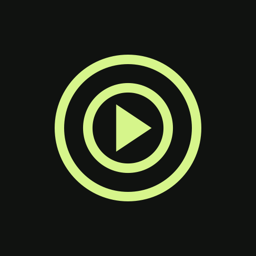
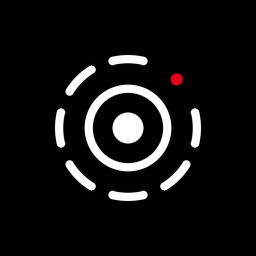
perf(sync): direct 1 MB USB reads, table-driven parallel LUT, per-stage timing
- UsbS5 reads large PTP payloads straight into the result in 1 MB bulk
  transfers instead of copying through a 16 KB packet buffer.
- LutEngine precomputes each channel's grid cell and weight for the 256
  input levels and renders full-size photos in row strips across cores;
  output is bit-identical to the old per-pixel loop (host check).
- Each saved photo logs where its time went: shutter, waiting for the new
  file, transfer with size and MB/s, LUT and total, for app shots and
  body-shutter syncs.

Also: black window background and white accent in both themes, the demo
frame's moving dot is no longer lime, and the new black-and-white app icon
with a Leica-red dot (drawn by Codex, docs/design/app-icon.svg).

Changed region(s): [[0.1875, 0.1875, 0.8125, 0.8125], [0.3125, 0.3125, 0.6875, 0.6875], [0.4375, 0.4062, 0.5938, 0.5938]]

diff --git a/mobile/src/scopes/ScopesOverlay.tsx b/mobile/src/scopes/ScopesOverlay.tsx
@@ -138,7 +138,7 @@ const ScopeChart = React.memo(function ScopeChart({kind, panel, bounds, data, st
     </View>
     {pressFeedback && <View testID={`scope-press-feedback-${kind}`} pointerEvents="none" style={styles.pressFeedback}>
       <Svg width={32} height={32} viewBox="0 0 32 32">
-        <Circle cx={16} cy={16} r={15} fill="#101210D9"/>
+        <Circle cx={16} cy={16} r={15} fill="#000000D9"/>
         <Circle cx={16} cy={16} r={RING_RADIUS} fill="none" stroke="#FFFFFF66" strokeWidth={2.5}/>
         <AnimatedCircle cx={16} cy={16} r={RING_RADIUS} fill="none" stroke={ui.color.accent} strokeWidth={2.5} strokeLinecap="round"
           strokeDasharray={`${RING_CIRCUMFERENCE} ${RING_CIRCUMFERENCE}`}

diff --git a/app/src/main/java/cn/moment/lumix/CaptureEngine.java b/app/src/main/java/cn/moment/lumix/CaptureEngine.java
@@ -211,6 +211,7 @@ public final class CaptureEngine {
         preparedHandles=null;log("遥控快门的照片尚未出现在机身索引中；下一次拍摄只接受快门后的照片事件");
     }
     private void importCameraPhoto(CameraTransport session,CameraTransport.Original photo) {
+        long foundUs=now();
         File dir=null;JSONObject meta=new JSONObject();LutEngine filter=lut;
         try {
             listener.status("正在同步机身拍摄的照片",false);
@@ -221,13 +222,17 @@ public final class CaptureEngine {
             meta.put("frames",0);meta.put("durationUs",0);meta.put("audio",false);meta.put("hasPostFrames",false);meta.put("complete",false);
             MomentStore.metadata(dir,meta);
             File original=new File(dir,"original.jpg"),part=new File(dir,"original.jpg.part");
-            try {session.downloadOriginal(photo,part);Files.move(part.toPath(),original.toPath(),java.nio.file.StandardCopyOption.ATOMIC_MOVE);}
+            SyncTiming timing=new SyncTiming(foundUs,foundUs,foundUs);timing.found=foundUs;
+            try {session.downloadOriginal(photo,part);timing.bytes=part.length();timing.downloaded=now();Files.move(part.toPath(),original.toPath(),java.nio.file.StandardCopyOption.ATOMIC_MOVE);}
             finally {Files.deleteIfExists(part.toPath());}
             savedOriginals.add(photo.key());session.noteSaved(photo);
             CameraTransport.Baseline before=preparedHandles;if(before!=null)preparedHandles=session.withPhoto(before,photo);
+            long lutStartUs=now();
             boolean lutApplied=renderLut(dir,original,filter,false);
+            timing.lut=lutApplied?now()-lutStartUs:-1;
             meta.put("lut",lutApplied?filter.title:JSONObject.NULL);meta.put("lutApplied",lutApplied);meta.put("complete",true);
             MomentStore.metadata(dir,meta);
+            log(timing.line("机身照片",now()));
             listener.saved(dir);listener.status("已同步机身照片 "+photo.filename(),false);log("已同步机身拍摄的照片 "+photo.filename());
         } catch(Exception e) {if(dir!=null){saveFailure(dir,meta,e);listener.failed(dir,e.getMessage());}fail(e);}
     }
@@ -289,7 +294,10 @@ public final class CaptureEngine {
                 if(!sameSession(captureEpoch,cameraAtTap,demoAtTap))throw new IOException("相机已断开，尚未触发快门");
                 if(!demoAtTap) cameraAtTap.clearCaptureEvents();
                 listener.status(motion?"正在拍摄 · 已保留快门前 3 秒":"正在拍摄照片",false);
+                long shutterSentUs=now();
                 if(!demoAtTap) cameraAtTap.shutter();
+                long shutterDoneUs=now();
+                SyncTiming timing=new SyncTiming(shutterUs,shutterSentUs,shutterDoneUs);
                 if(!sameSession(captureEpoch,cameraAtTap,demoAtTap)) throw new IOException("拍摄期间连接中断；请检查机身 SD 卡中的原片");
                 dir=store.create();meta.put("schema",1);meta.put("demo",demoAtTap);
                 meta.put("createdAt",System.currentTimeMillis());meta.put("captureMode",motion?"pre-only":"photo");
@@ -304,10 +312,12 @@ public final class CaptureEngine {
                 else {
                     listener.status(motion?"动态已缓存 · 正在接收原尺寸照片":"正在接收原尺寸照片",false);
                     CameraTransport.Original source=cameraAtTap.awaitNewJpeg(captureBaseline,()->sameSession(captureEpoch,cameraAtTap,false));filename=source.filename();
+                    timing.found=now();
                     meta.put("source",filename);MomentStore.metadata(dir,meta);
                     File part=new File(dir,"original.jpg.part");
                     try {
                         cameraAtTap.downloadOriginal(source,part);
+                        timing.bytes=part.length();timing.downloaded=now();
                         Files.move(part.toPath(),original.toPath(),java.nio.file.StandardCopyOption.ATOMIC_MOVE);
                     } finally {Files.deleteIfExists(part.toPath());}
                     savedOriginals.add(source.key());cameraAtTap.noteSaved(source);
@@ -319,14 +329,17 @@ public final class CaptureEngine {
                 }
                 meta.put("source",filename);MomentStore.metadata(dir,meta);
                 // Keep the camera bytes immutable; rendered.jpg is an explicit derivative.
+                long lutStartUs=now();
                 boolean lutApplied=renderLut(dir,original,filter,motion);
+                timing.lut=lutApplied?now()-lutStartUs:-1;
                 meta.put("schema",1);meta.put("demo",demoAtTap);meta.put("source",filename);
                 meta.put("frames",fs.size());meta.put("maxGapMs",motion?Math.max(FrameRing.maxGap(fs),to-fs.get(fs.size()-1).us)/1000:0);
                 meta.put("hasPostFrames",false);meta.put("audio",audioSamples!=null);meta.put("shutterTimeBasis",motion?"button-tap pre-shutter buffer snapshot; exposure time is approximate":"button-tap request; camera exposure time is approximate");
                 meta.put("lut",lutApplied?filter.title:JSONObject.NULL);meta.put("lutApplied",lutApplied);
                 if(!motion) {
                     meta.put("durationUs",0);meta.put("complete",true);meta.remove("error");MomentStore.metadata(dir,meta);
-                    ring.clear();busy=false;refreshExposure();listener.saved(dir);listener.status(savedStatus(false,lutApplied,filter==null?null:filter.title),false);return;
+                    ring.clear();busy=false;refreshExposure();listener.saved(dir);listener.status(savedStatus(false,lutApplied,filter==null?null:filter.title),false);
+                    if(!demoAtTap)log(timing.line("拍照",now()));return;
                 }
                 // The still marker uses the last encoded sample, never an out-of-range end timestamp.
                 long stillUs=((long)Math.ceil((to-from)*VideoEncoder.FPS/1_000_000.0)-1)*1_000_000L/VideoEncoder.FPS;
@@ -336,6 +349,7 @@ public final class CaptureEngine {
                 meta.put("motionQuality",demoAtTap?"synthetic demo":cameraAtTap.kind().equals("wifi")?"experimental unverified Wi-Fi preview, not camera-recorded video":"USB preview, not camera-recorded video");
                 meta.put("complete",false);meta.put("error","动态照片还在生成，已接收的原片可以分享");
                 MomentStore.metadata(dir,meta);
+                if(!demoAtTap)log(timing.line("动态照片原片",now()));
                 File finalDir=dir; final boolean rendered=lutApplied;
                 listener.status("原片已接收 · 正在生成动态照片",false);
                 exporter.execute(()-> {
@@ -402,7 +416,7 @@ public final class CaptureEngine {
         p.setColor(0xffe3d9b7);c.drawCircle(width*.7f,height*.25f,height*.11f,p);
         p.setColor(0xff2b4942);c.drawOval(-width*.2f,height*.4f,width*.8f,height*1.4f,p);
         p.setColor(0xff112c29);c.drawOval(width*.3f,height*.55f,width*1.3f,height*1.4f,p);
-        p.setColor(0xffd6f58b);c.drawCircle(x,height*.55f+(float)Math.sin(t*Math.PI*2)*height*.08f,height*.026f,p);
+        p.setColor(0xfff2f2f2);c.drawCircle(x,height*.55f+(float)Math.sin(t*Math.PI*2)*height*.08f,height*.026f,p);
         // A top-left line rotates onto the battery corner in portrait. Keep the mark low, small, and faint.
         p.setColor(0x80EFF3E9);p.setTextSize(height*.022f);p.setTextAlign(Paint.Align.CENTER);p.setTypeface(Typeface.create("sans-serif",Typeface.NORMAL));
         c.drawText("SYNTHETIC DEMO",width*.5f,height*.70f,p);

diff --git a/app/src/main/java/cn/moment/lumix/LutEngine.java b/app/src/main/java/cn/moment/lumix/LutEngine.java
@@ -110,15 +110,7 @@ public final class LutEngine {
         try {
             bitmap = source.getConfig() == Bitmap.Config.ARGB_8888 && source.isMutable() ? source : source.copy(Bitmap.Config.ARGB_8888, true);
             if (bitmap == null) throw new IOException("无法建立 LUT 图像缓冲");
-            int w = bitmap.getWidth(), h = bitmap.getHeight(); int[] px = new int[w]; float[] rgb = new float[3];
-            for (int row = 0; row < h; row++) {
-                bitmap.getPixels(px, 0, w, 0, row, w, 1);
-                for (int i = 0; i < px.length; i++) {
-                    int c = px[i]; sample((c >>> 16 & 255) / 255f, (c >>> 8 & 255) / 255f, (c & 255) / 255f, rgb);
-                    px[i] = (c & 0xff000000) | (toByte(rgb[0]) << 16) | (toByte(rgb[1]) << 8) | toByte(rgb[2]);
-                }
-                bitmap.setPixels(px, 0, w, 0, row, w, 1);
-            }
+            apply(bitmap);
             ByteArrayOutputStream out = new ByteArrayOutputStream(Math.max(jpeg.length, 1024));
             if (!bitmap.compress(Bitmap.CompressFormat.JPEG, 95, out)) throw new IOException("LUT JPEG 编码失败");
             return out.toByteArray();
@@ -127,6 +119,63 @@ public final class LutEngine {
         } finally {
             if (bitmap != null && bitmap != source) bitmap.recycle();
             source.recycle();
+        }
+    }
+
+    /** Rows per work unit. Big enough to amortise getPixels, small enough to spread over the cores. */
+    private static final int STRIP_ROWS = 64;
+    /** Below this many pixels (a preview frame) threads cost more than they save. */
+    private static final long PARALLEL_PIXELS = 1_500_000L;
+
+    /**
+     * Same per-pixel math as before, but the per-channel grid position of every 8-bit input is
+     * computed once, and a full-size photo is split into row strips across the cores. Output is
+     * bit-identical to the single-threaded loop: strips never overlap and each pixel's arithmetic
+     * is unchanged.
+     */
+    private void apply(Bitmap bitmap) {
+        final int w = bitmap.getWidth(), h = bitmap.getHeight();
+        final Axis[] axes = axes();
+        int strips = (h + STRIP_ROWS - 1) / STRIP_ROWS;
+        java.util.stream.IntStream range = java.util.stream.IntStream.range(0, strips);
+        if ((long) w * h >= PARALLEL_PIXELS) range = range.parallel();
+        range.forEach(strip -> {
+            int y = strip * STRIP_ROWS, rows = Math.min(STRIP_ROWS, h - y);
+            int[] px = new int[w * rows]; float[] rgb = new float[3];
+            bitmap.getPixels(px, 0, w, 0, y, w, rows);
+            for (int i = 0; i < px.length; i++) {
+                int c = px[i]; sample8(axes, c >>> 16 & 255, c >>> 8 & 255, c & 255, rgb);
+                px[i] = (c & 0xff000000) | (toByte(rgb[0]) << 16) | (toByte(rgb[1]) << 8) | toByte(rgb[2]);
+            }
+            bitmap.setPixels(px, 0, w, 0, y, w, rows);
+        });
+    }
+
+    /** Grid cell and weight for each 8-bit value on one channel, exactly as sample() derives them. */
+    private static final class Axis { final int[] lo = new int[256], hi = new int[256]; final float[] t = new float[256]; }
+    private volatile Axis[] axes;
+    private Axis[] axes() {
+        Axis[] ready = axes;
+        if (ready != null) return ready;
+        Axis[] built = new Axis[3];
+        for (int c = 0; c < 3; c++) {
+            Axis axis = built[c] = new Axis();
+            for (int v = 0; v < 256; v++) {
+                float x = norm(v / 255f, c) * (size - 1);
+                int x0 = (int) Math.floor(x);
+                axis.lo[v] = x0; axis.hi[v] = Math.min(x0 + 1, size - 1); axis.t[v] = x - x0;
+            }
+        }
+        return axes = built;
+    }
+    private void sample8(Axis[] axes, int r, int g, int b, float[] out) {
+        Axis ax = axes[0], ay = axes[1], az = axes[2];
+        int x0 = ax.lo[r], x1 = ax.hi[r], y0 = ay.lo[g], y1 = ay.hi[g], z0 = az.lo[b], z1 = az.hi[b];
+        float tx = ax.t[r], ty = ay.t[g], tz = az.t[b];
+        for (int c = 0; c < 3; c++) {
+            float a = lerp(v(x0,y0,z0,c), v(x1,y0,z0,c), tx), b0 = lerp(v(x0,y1,z0,c), v(x1,y1,z0,c), tx);
+            float c0 = lerp(v(x0,y0,z1,c), v(x1,y0,z1,c), tx), d = lerp(v(x0,y1,z1,c), v(x1,y1,z1,c), tx);
+            out[c] = lerp(lerp(a, b0, ty), lerp(c0, d, ty), tz);
         }
     }
 

diff --git a/tests/LutBitmapChecks.java b/tests/LutBitmapChecks.java
@@ -32,6 +32,41 @@ public final class LutBitmapChecks {
                   Arrays.equals(actual.parade, expected.parade) && Arrays.equals(actual.vectorscope, expected.vectorscope), "all scopes analyze the effective LUT JPEG");
         }
     }
+    /**
+     * The table lookup and the row-strip threads must not change a single pixel: compare a
+     * multi-megapixel apply() against the original per-pixel sample() for every built-in LUT.
+     */
+    private static void parallelMatchesSerial(File assets) throws Exception {
+        int w = 1800, h = 1000;
+        BufferedImage noise = new BufferedImage(w, h, BufferedImage.TYPE_INT_RGB);
+        java.util.Random random = new java.util.Random(7);
+        for (int y = 0; y < h; y++) for (int x = 0; x < w; x++) noise.setRGB(x, y, random.nextInt(0x1000000));
+        ByteArrayOutputStream encoded = new ByteArrayOutputStream();
+        check(ImageIO.write(noise, "png", encoded), "host PNG encoder available");
+        Method sampler = LutEngine.class.getDeclaredMethod("sample", float.class, float.class, float.class);
+        Method apply = LutEngine.class.getDeclaredMethod("apply", Bitmap.class);
+        sampler.setAccessible(true); apply.setAccessible(true);
+        for (BuiltInLutCatalog.Entry entry : BuiltInLutCatalog.ENTRIES) {
+            LutEngine lut = LutEngine.load(new File(assets, entry.assetName));
+            BitmapFactory.Options options = new BitmapFactory.Options(); options.inMutable = true;
+            byte[] bytes = encoded.toByteArray();
+            Bitmap bitmap = BitmapFactory.decodeByteArray(bytes, 0, bytes.length, options);
+            if (!bitmap.isMutable()) bitmap = bitmap.copy(Bitmap.Config.ARGB_8888, true);
+            int[] before = new int[w * h]; bitmap.getPixels(before, 0, w, 0, 0, w, h);
+            apply.invoke(lut, bitmap);
+            int[] after = new int[w * h]; bitmap.getPixels(after, 0, w, 0, 0, w, h);
+            boolean same = true;
+            for (int i = 0; i < before.length && same; i += 97) {
+                int c = before[i];
+                float[] e = (float[]) sampler.invoke(lut, (c >>> 16 & 255) / 255f, (c >>> 8 & 255) / 255f, (c & 255) / 255f);
+                int expected = (c & 0xff000000) | (byteOf(e[0]) << 16) | (byteOf(e[1]) << 8) | byteOf(e[2]);
+                same = after[i] == expected;
+            }
+            check(same, "parallel table LUT matches the per-pixel sampler exactly: " + entry.name);
+        }
+    }
+    private static int byteOf(float v) { return Math.round(Math.max(0f, Math.min(1f, v)) * 255f); }
+
     public static void main(String[] args) throws Exception {
         File assets = new File(args[0]);
         BufferedImage image = new BufferedImage(32, 32, BufferedImage.TYPE_INT_RGB);
@@ -59,6 +94,7 @@ public final class LutBitmapChecks {
                 check(Math.abs(actual - Math.round(expected[channel] * 255)) <= 4, "pixel loop applies LUT before host JPEG encoding");
             }
         }
+        parallelMatchesSerial(assets);
         System.out.println(checks + " bitmap / host JPEG / post-LUT scope checks passed (Android codecs not exercised).");
     }
 }

diff --git a/tests/android-stubs/android/hardware/usb/UsbDeviceConnection.java b/tests/android-stubs/android/hardware/usb/UsbDeviceConnection.java
@@ -21,8 +21,16 @@ public final class UsbDeviceConnection {
     public boolean claimInterface(UsbInterface iface,boolean force){return true;}
     public boolean releaseInterface(UsbInterface iface){released++;return true;}
     public void close(){closed=true;}
+    /** Largest single IN read seen, so checks can tell packet reads from direct payload reads. */
+    public int largestRead;
     public int bulkTransfer(UsbEndpoint endpoint,byte[] bytes,int offset,int length,int timeout){
         if(closed)return -1;
+        if(endpoint!=null && endpoint.getDirection()==128){
+            largestRead=Math.max(largestRead,length);
+            byte[] chunk=new byte[length];int n=bulkTransfer(endpoint,chunk,length,timeout);
+            if(n>0)System.arraycopy(chunk,0,bytes,offset,n);
+            return n;
+        }
         byte[] command=Arrays.copyOfRange(bytes,offset,offset+length);commands.add(command);
         byte[] response=respond.apply(command);for(byte b:response)pending.add(b);
         return length;
@@ -32,7 +40,7 @@ public final class UsbDeviceConnection {
         if(slowReads>0){slowReads--;try{Thread.sleep(Math.min(timeout,250));}catch(InterruptedException e){Thread.currentThread().interrupt();}return -1;}
         if(failAfterBytes>=0 && delivered>=failAfterBytes){failAfterBytes=-1;return -1;}
         if(pending.isEmpty())return -1;
-        int n=Math.min(7,Math.min(length,pending.size()));for(int i=0;i<n;i++)bytes[i]=pending.remove();delivered+=n;return n;
+        int n=Math.min(length>16384?65536:7,Math.min(length,pending.size()));for(int i=0;i<n;i++)bytes[i]=pending.remove();delivered+=n;return n;
     }
     public UsbRequest requestWait(long timeout) throws java.util.concurrent.TimeoutException {throw new java.util.concurrent.TimeoutException();}
 }

diff --git a/app/src/main/java/cn/moment/lumix/UsbS5.java b/app/src/main/java/cn/moment/lumix/UsbS5.java
@@ -25,6 +25,8 @@ public final class UsbS5 implements AutoCloseable {
     private volatile boolean closed;
     private int transaction;
     private byte[] packet=new byte[16384];
+    /** Large payload reads go straight into the result in transfers of this size. */
+    static final int DIRECT_CHUNK=1<<20;
     private int offset,available;
     private Thread eventThread;
     private boolean session,vendorSession,live;
@@ -200,6 +202,17 @@ public final class UsbS5 implements AutoCloseable {
     private byte[] read(int length,long deadline,boolean awaitStart) throws IOException {
         byte[] result=new byte[length];int p=0,empty=0,fast=0;
         while(p<length) {
+            // A full-size original is thousands of 16 KB packets. Once the buffered bytes are used,
+            // read the rest of a large payload straight into the result in 1 MB transfers.
+            // Packet reads end on packet boundaries, so these reads stay aligned; they never ask
+            // for more than the container has left, so they cannot swallow the response.
+            if(offset==available && !awaitStart && length-p>=packet.length) {
+                int timeout=remaining(deadline);
+                int n=connection.bulkTransfer(in,result,p,Math.min(length-p,DIRECT_CHUNK),timeout);
+                if(n<0) throw new IOException("USB 读取失败或超时");
+                if(n==0) {if(++empty>4) throw new IOException("USB 连续空包");continue;}
+                p+=n;continue;
+            }
             if(offset==available) {
                 int timeout=remaining(deadline);long started=SystemClock.elapsedRealtime();
                 available=connection.bulkTransfer(in,packet,packet.length,timeout);offset=0;

diff --git a/app/src/main/java/cn/moment/lumix/SyncTiming.java b/app/src/main/java/cn/moment/lumix/SyncTiming.java
@@ -1,0 +1,30 @@
+package cn.moment.lumix;
+
+import java.util.Locale;
+
+/**
+ * Where one photo's sync time went, for the diagnostics log. All values are the monotonic
+ * microsecond clock of CaptureEngine.now(); -1 means the stage did not run.
+ */
+final class SyncTiming {
+    final long tapUs,shutterSentUs,shutterDoneUs;
+    long found=-1,downloaded=-1,bytes=-1,lut=-1;
+    SyncTiming(long tapUs,long shutterSentUs,long shutterDoneUs) {this.tapUs=tapUs;this.shutterSentUs=shutterSentUs;this.shutterDoneUs=shutterDoneUs;}
+
+    /** e.g.「同步耗时 · 拍照 · 快门 420 ms · 等新照片 310 ms · 传输 1830 ms（12.4 MB，6.8 MB/s） · LUT 640 ms · 合计 3.4 s」 */
+    String line(String kind,long endUs) {
+        StringBuilder out=new StringBuilder("同步耗时 · ").append(kind);
+        if(shutterDoneUs>shutterSentUs) out.append(" · 快门 ").append(ms(shutterDoneUs-shutterSentUs));
+        if(found>=0 && found>shutterDoneUs) out.append(" · 等新照片 ").append(ms(found-shutterDoneUs));
+        if(downloaded>=0 && found>=0) {
+            long us=Math.max(1,downloaded-found);
+            out.append(" · 传输 ").append(ms(us));
+            if(bytes>0) out.append(String.format(Locale.ROOT,"（%.1f MB，%.1f MB/s）",bytes/1_048_576.0,bytes/1_048_576.0/(us/1_000_000.0)));
+        }
+        if(lut>=0) out.append(" · LUT ").append(ms(lut));
+        out.append(" · 合计 ").append(seconds(endUs-tapUs));
+        return out.toString();
+    }
+    private static String ms(long us) {return (us/1000)+" ms";}
+    private static String seconds(long us) {return us<10_000_000?String.format(Locale.ROOT,"%.1f s",us/1_000_000.0):(us/1_000_000)+" s";}
+}

diff --git a/tests/Iteration5SystemChecks.java b/tests/Iteration5SystemChecks.java
@@ -10,11 +10,24 @@ public final class Iteration5SystemChecks {
     private static int checks;
     private static void check(boolean value, String message) { checks++; if (!value) throw new AssertionError(message); }
 
+    /** Sync timing line: each stage measured from the one before it, size and speed when known. */
+    private static void syncTiming() {
+        SyncTiming t = new SyncTiming(0, 50_000, 470_000);
+        t.found = 780_000; t.downloaded = 2_610_000; t.bytes = 13_002_342; t.lut = 640_000;
+        String line = t.line("拍照", 3_400_000);
+        check(line.equals("同步耗时 · 拍照 · 快门 420 ms · 等新照片 310 ms · 传输 1830 ms（12.4 MB，6.8 MB/s） · LUT 640 ms · 合计 3.4 s"), "sync timing line: " + line);
+        SyncTiming body = new SyncTiming(100, 100, 100);
+        body.found = 100; body.downloaded = 900_100; body.bytes = 9_437_184;
+        String bodyLine = body.line("机身照片", 1_000_100);
+        check(bodyLine.equals("同步耗时 · 机身照片 · 传输 900 ms（9.0 MB，10.0 MB/s） · 合计 1.0 s"), "body photo line skips shutter, wait and LUT: " + bodyLine);
+    }
+
     public static void main(String[] args) throws Exception {
         storageChecks();
         immersiveChecks();
         batterySignalChecks();
         appDetailsChecks();
+        syncTiming();
         System.out.println("PASS " + checks + " iteration 5 system checks");
     }
 

diff --git a/tests/UsbPtpChecks.java b/tests/UsbPtpChecks.java
@@ -57,6 +57,15 @@ public final class UsbPtpChecks {
         check(camera.closed() && (System.nanoTime()-started)/1_000_000<2000,"immediate -1 results still abort quickly");
 
         manager=manager();camera=open(manager);
+        // A multi-megabyte original arrives intact through the direct 1 MB reads.
+        byte[] large=new byte[3*1024*1024+12345];for(int i=0;i<large.length;i++)large[i]=(byte)(i*31+7);
+        manager.connection.respond=command->{int tx=Ptp.le(command).getInt(8);return join(container(2,0x1009,tx,large),container(3,0x2001,tx,new byte[0]));};
+        check(Arrays.equals(camera.object(9),large),"a large original keeps every byte");
+        check(manager.connection.largestRead>16384,"large payloads are read in direct transfers, not 16 KB packets");
+        check(!camera.closed(),"the session stays open after a large transfer");
+        camera.close();
+
+        manager=manager();camera=open(manager);
         byte[] object=new byte[64];
         manager.connection.respond=command->{int tx=Ptp.le(command).getInt(8);return join(container(2,0x1009,tx,object),container(3,0x2001,tx,new byte[0]));};
         manager.connection.failAfter(21);UsbS5 broken=camera;
